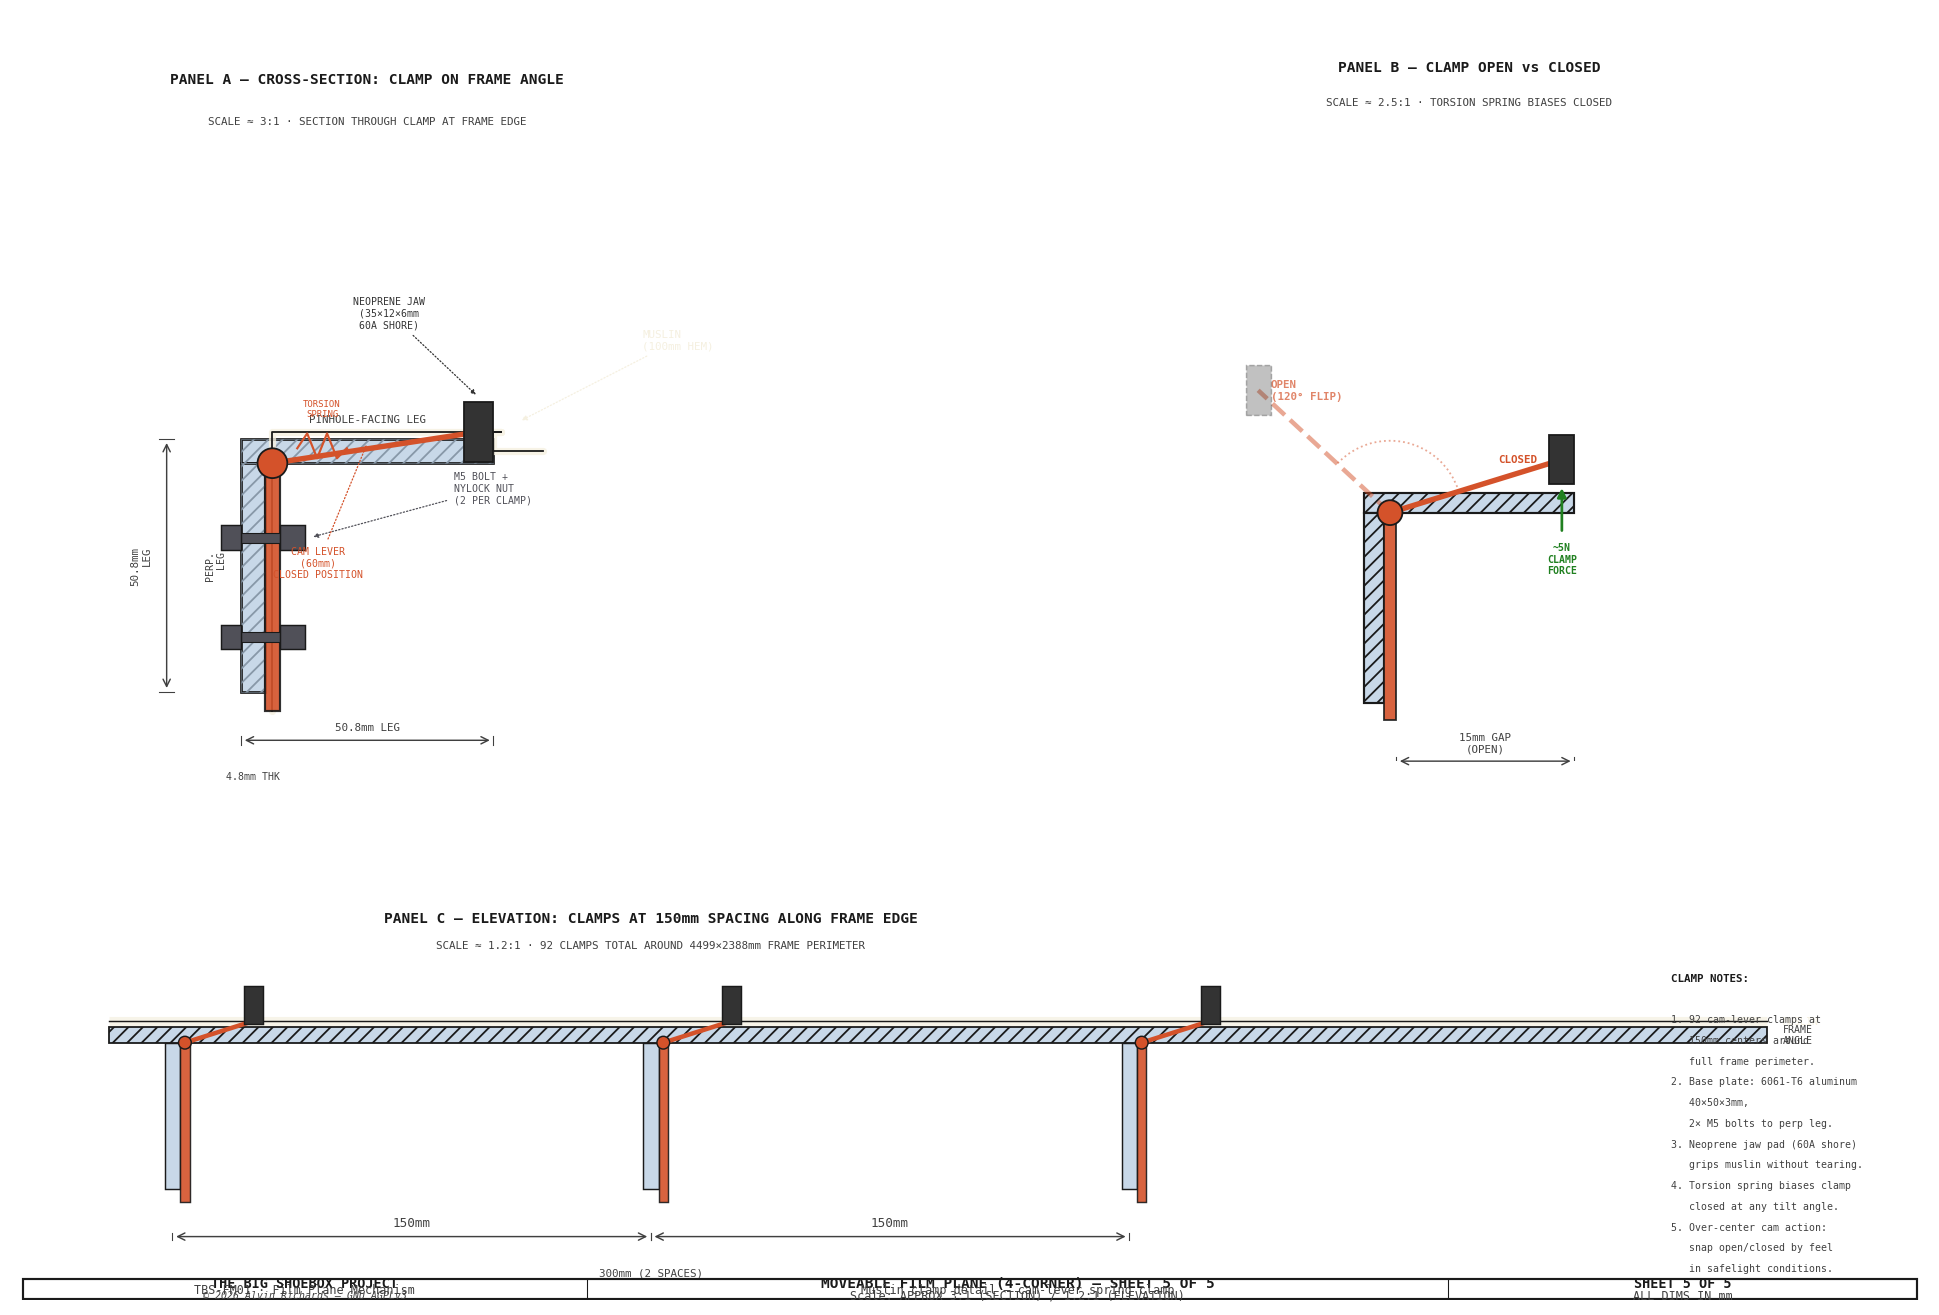
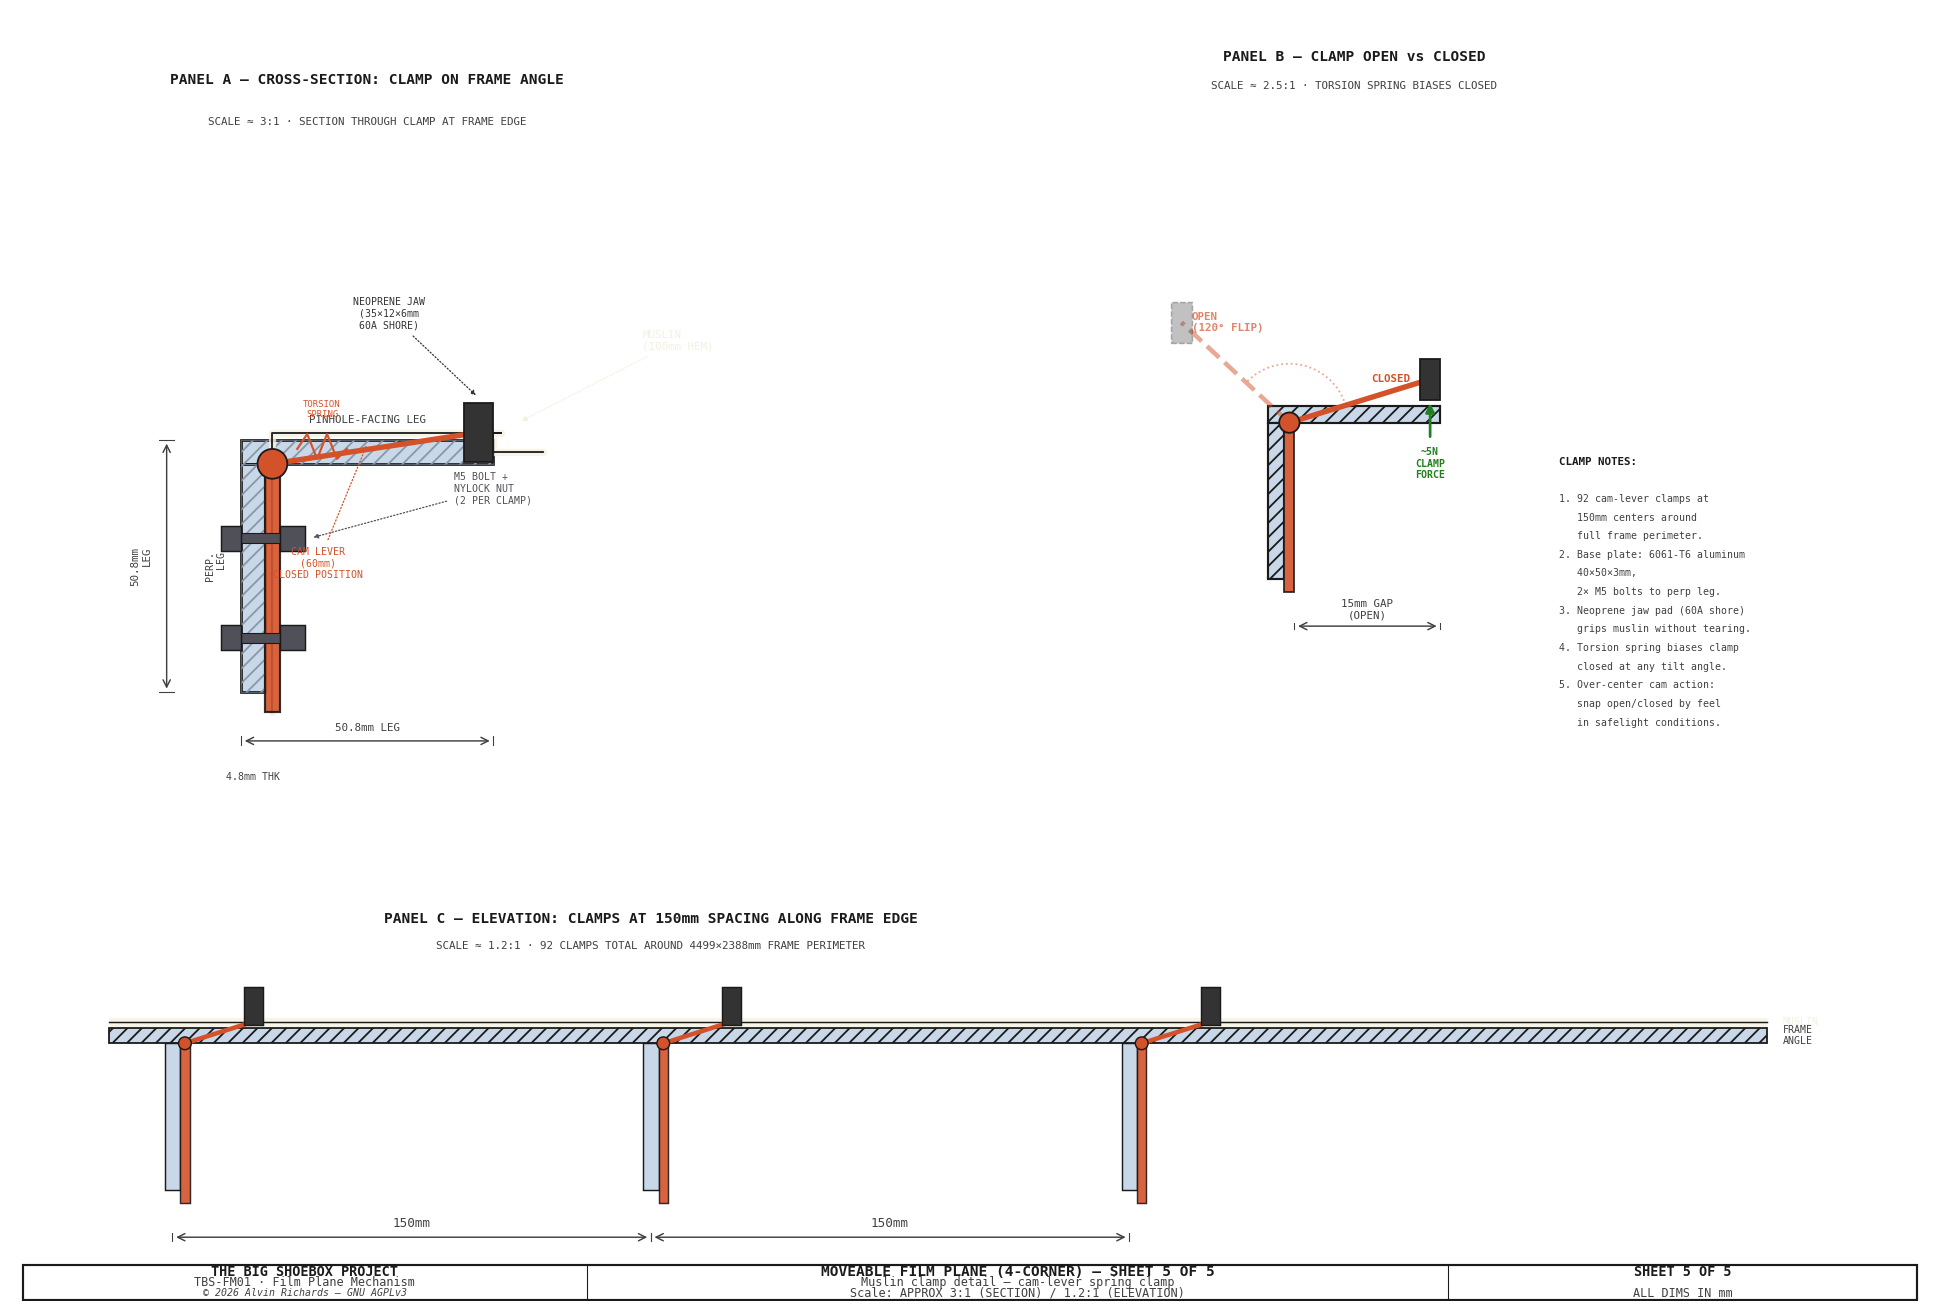
Film plane sheet 5: expand title block and move notes to top right
Move clamp notes from panel C (bottom right) to panel B (top right)
below the open/closed diagram. Increase title block height from
default 0.045 to 0.08 to avoid cramped text.

diff --git a/generate_film_plane_mechanism.py b/generate_film_plane_mechanism.py
@@ -1086,8 +1086,8 @@ def sheet5():
     SB = 2.5
     def sb(mm): return mm * SB
 
-    ax_b.set_xlim(sb(-40), sb(LEG + 50))
-    ax_b.set_ylim(sb(-60), sb(LEG + CLAMP_LEVER_L + 10))
+    ax_b.set_xlim(sb(-40), sb(LEG + 120))
+    ax_b.set_ylim(sb(-100), sb(LEG + CLAMP_LEVER_L + 10))
     ax_b.set_aspect("equal")
 
     # Simplified angle profile (side view — just the pinhole-facing leg top edge)
@@ -1254,8 +1254,7 @@ def sheet5():
               f"SCALE ≈ 1.2:1 · {CLAMP_N_TOTAL} CLAMPS TOTAL AROUND {int(FP_W)}×{int(FP_H)}mm FRAME PERIMETER",
               ha="center", va="bottom", fontsize=6, color=DIM, **FONT, zorder=15)
 
-    # Notes
-    notes_x = sc(span + 20)
+    # Notes — placed in panel B (top-right), below diagram content
     notes = [
         "CLAMP NOTES:",
         "",
@@ -1273,9 +1272,11 @@ def sheet5():
         f"   snap open/closed by feel",
         f"   in safelight conditions.",
     ]
+    notes_x = sb(LEG + 35)
+    notes_y_start = sb(-10)
     for i, line in enumerate(notes):
         bold = i == 0
-        ax_c.text(notes_x, sc(T + CLAMP_JAW_H + 5 - i * 6.5), line,
+        ax_b.text(notes_x, notes_y_start - i * sb(5.5), line,
                   ha="left", va="top", fontsize=5.5 if not bold else 6,
                   color=ANNO if bold else DIM,
                   fontweight="bold" if bold else "normal",
@@ -1287,7 +1288,8 @@ def sheet5():
                 drawing_title="MOVEABLE FILM PLANE (4-CORNER)",
                 subtitle="Muslin clamp detail — cam-lever spring clamp",
                 scale_note="APPROX 3:1 (SECTION) / 1.2:1 (ELEVATION)",
-                doc_id="TBS-FM01 · Film Plane Mechanism")
+                doc_id="TBS-FM01 · Film Plane Mechanism",
+                height=0.08)
 
     fig.savefig(f"{DIAGRAMS_DIR}/film-plane-sheet5.png", dpi=130, bbox_inches="tight", facecolor=BG)
     fig.savefig(svg_path(f"{DIAGRAMS_DIR}/film-plane-sheet5.png"), bbox_inches="tight", facecolor=BG)
